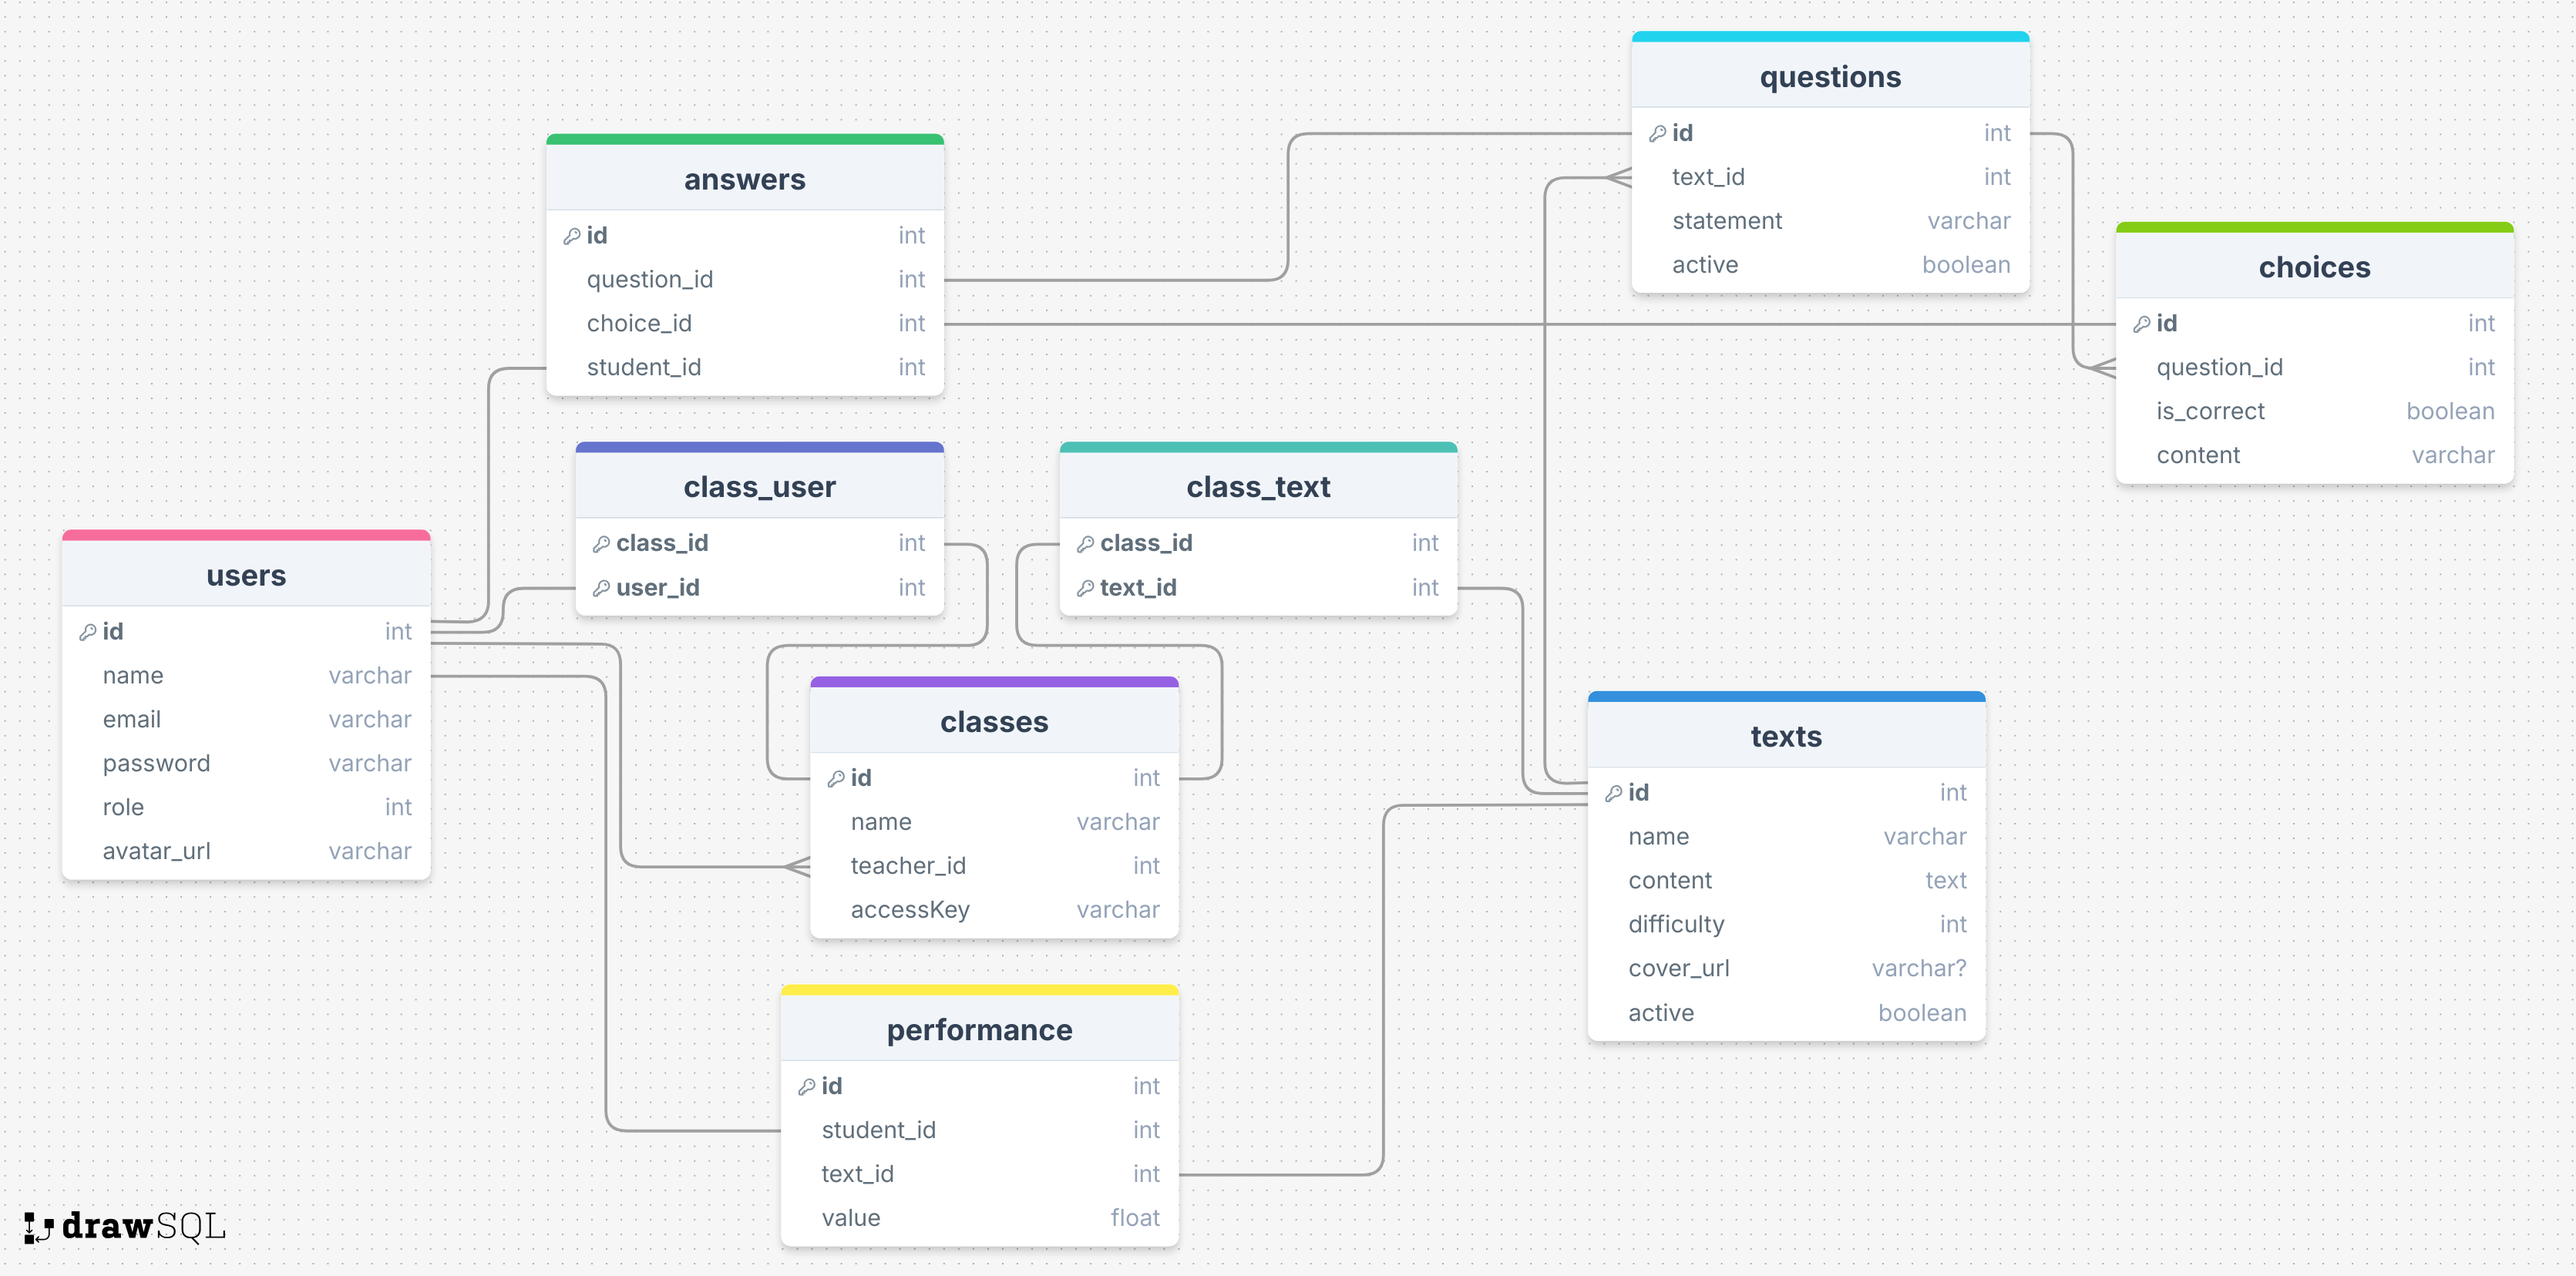
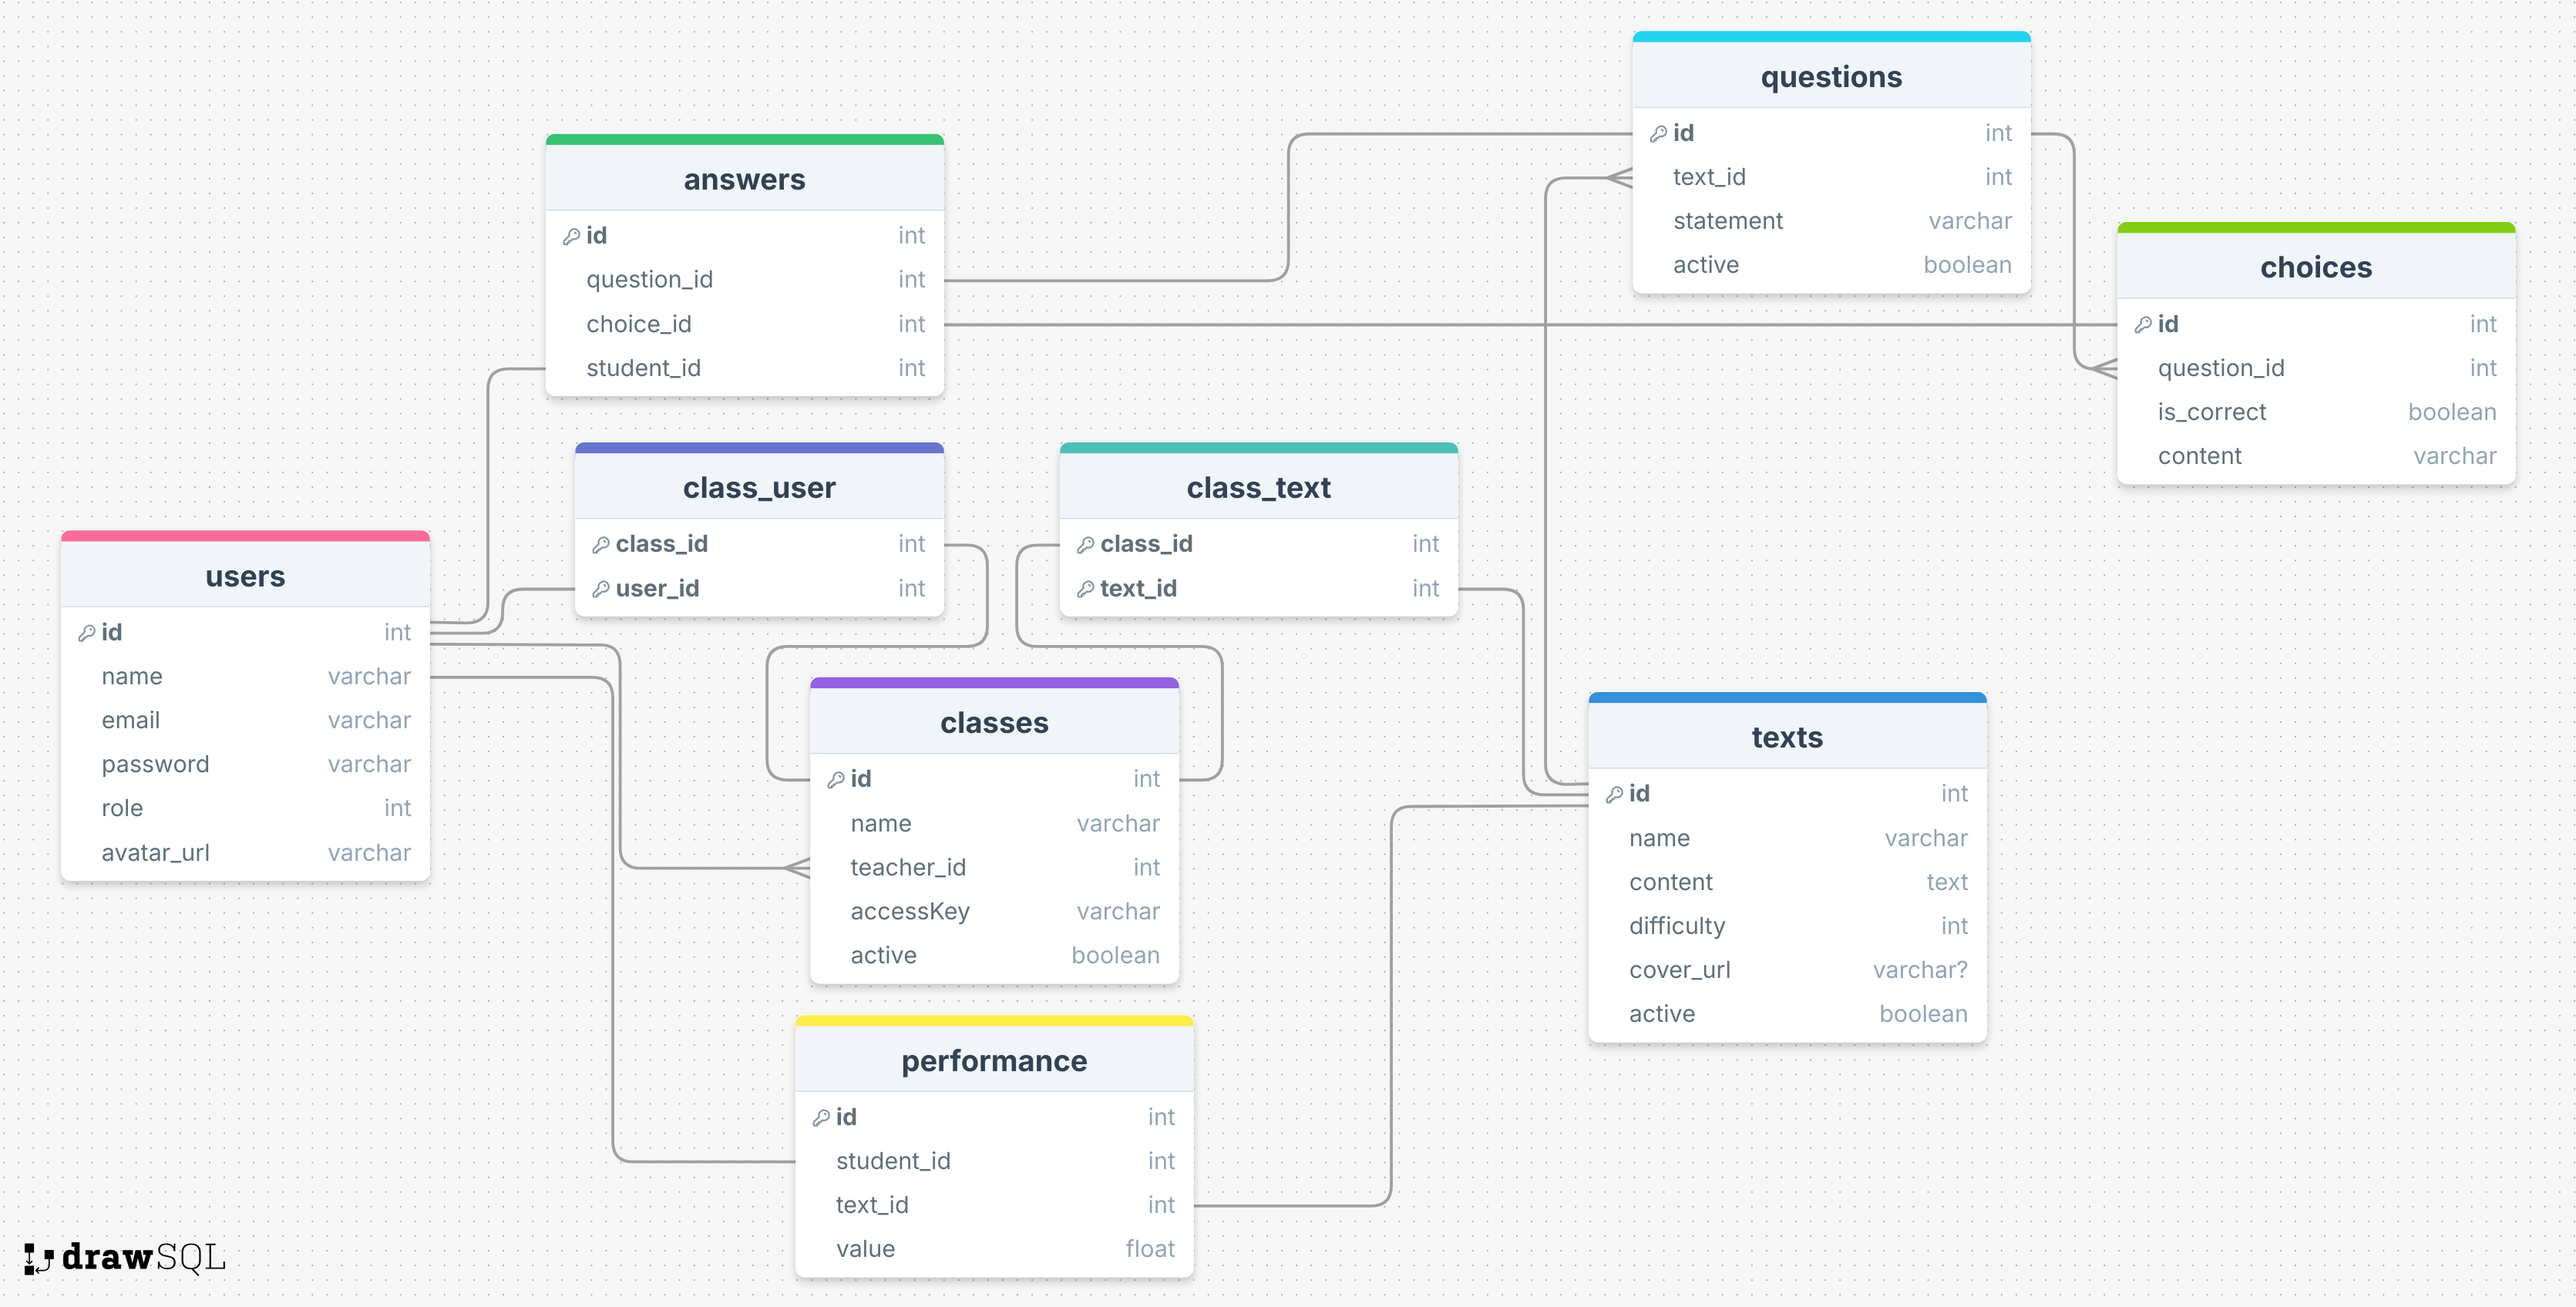
feat: class endpoints

diff --git a/src/services/classService.js b/src/services/classService.js
@@ -1,0 +1,153 @@
+import roles from "@/lib/roles";
+const AppError = require("@/lib/appError");
+const prisma = require("@/lib/prisma");
+
+const getByName = async (name) => {
+  if(!name) {
+    name = "";  
+  }
+
+  const classes = await prisma.class.findMany({
+    where: {
+      name: {
+        contains: name,
+        mode: "insensitive"
+      }, 
+      active: true
+    },
+    orderBy: {
+      name: "asc"
+    }
+  });
+
+  return classes;
+};
+
+const deleteById = async (id) => {
+  const classroom = await prisma.class.findFirst({
+    where: {
+      id
+    }
+  });
+
+  if(!classroom) {
+    throw new AppError("Turma não encontrada!", 404);
+  }
+
+  await prisma.class.update({
+    where: {
+      id: classroom.id
+    },
+    data: {
+      active: false
+    }
+  });
+};
+
+const getById = async (id) => {
+  const classroom = await prisma.class.findFirst({
+    where: {
+      id: id
+    },
+    include: {
+      teacher: true,
+    }
+  });
+
+  if (!classroom) {
+    throw new AppError("Turma não encontrada!", 404);
+  }
+
+  const students = await prisma.user.findMany({
+    where: {
+      classUser: {
+        some: {
+          classId: id
+        }
+      }
+    }
+  });
+
+  return {
+    ...classroom,
+    students: students
+  };
+};
+
+const validateName = async(id, name) => {
+  let classroom;
+  if(id) {
+    classroom = await prisma.class.findFirst({
+      where: {
+        name: name,
+        id: {
+          not: id
+        }
+      }
+    });
+  } else {
+    classroom = await prisma.class.findFirst({
+      where: {
+        name
+      }
+    });
+  }
+
+  if(classroom) {
+    throw new AppError("Esse nome já está vinculado a outra turma!");
+  }
+};
+
+const create = async ({ name, teacher_id, access_key }) => {
+  const teacher = await prisma.user.findFirst({
+    where: {
+      id: teacher_id,
+      role: roles.TEACHER
+    }
+  });
+
+  if(!teacher) {
+    throw new AppError("Professor inválido!");
+  }
+
+  await validateName(null, name);
+  const newClass = await prisma.class.create({
+    data: {
+      name,
+      teacherId: teacher_id,
+      accessKey: access_key
+    }
+  });
+
+  return newClass;
+};
+
+const update = async ({ id, name }) => {
+  await validateName(id, name);
+  const classroom = await prisma.class.findUnique({
+    where: {
+      id
+    }
+  });
+
+  if(!classroom) {
+    throw new AppError("Turma não encontrada!");
+  }
+
+  await prisma.class.update({
+    where: {
+      id: id
+    },
+    data: {
+      name: name
+    }
+  });
+};
+
+module.exports = {
+  create,
+  update,
+  getById,
+  getByName,
+  deleteById
+};

diff --git a/src/controllers/classController.js b/src/controllers/classController.js
@@ -1,0 +1,46 @@
+const classService = require("@/services/classService");
+const createResponse = require("@/lib/responseHelper");
+const AppError = require("@/lib/appError");
+
+const index = async (req, name) => {
+  const classroom = await classService.getByName(name);
+  return createResponse({ body: { classroom: classroom }, status: 200 });
+};
+
+const show = async (classId) => {
+  const classroom = await classService.getById(classId);
+  return createResponse({ body: { classroom }, status: 200 });
+};
+
+const destroy = async (classId) => {
+  await classService.deleteById(classId);
+  return createResponse({ body: { message: "Inativado com sucesso!"}, status: 200 });
+};
+
+const create = async (req) => {
+  const { name, teacher_id, access_key } = await req.json();
+  if(!name || !teacher_id || !access_key) {
+    throw new AppError("Dados obrigatórios não informados!", 400);
+  }
+
+  const id = await classService.create({ name, teacher_id, access_key });
+  return createResponse({ body: { id }, status: 201 });
+};
+
+const update = async (req, classId) => {
+  const { name } = await req.json();
+  if(!name) {
+    throw new AppError("Dados obrigatórios não informados!", 400);
+  }
+
+  await classService.update({ id: classId, name });
+  return createResponse({ status: 201 });
+};
+
+module.exports = {
+  create,
+  update,
+  index,
+  show,
+  destroy
+};

diff --git a/src/app/api/classes/[id]/route.js b/src/app/api/classes/[id]/route.js
@@ -1,0 +1,41 @@
+import handleError from "@/lib/errorHandler";
+import { getIdFromUrl } from "@/lib/urlHelper";
+import { verifyToken } from "@/middleware/authMiddleware";
+import { verifyTeacherRole } from "@/middleware/teacherMiddleware";
+const classController = require("@/controllers/classController");
+
+export async function PUT(req) {
+  try {
+    const tokenInfo =  verifyToken(req);
+    verifyTeacherRole(tokenInfo);
+    const classId = getIdFromUrl(req);
+
+    return await classController.update(req, classId);
+  } catch(error) {
+    return handleError(error);
+  }
+}
+
+export async function GET(req) {
+  try {
+    const tokenInfo =  verifyToken(req);
+    verifyTeacherRole(tokenInfo);
+    const classId = getIdFromUrl(req);
+
+    return await classController.show(classId);
+  } catch(error) {
+    return handleError(error);
+  }
+}
+
+export async function DELETE(req) {
+  try {
+    const tokenInfo =  verifyToken(req);
+    verifyTeacherRole(tokenInfo);
+    const classId = getIdFromUrl(req);
+
+    return await classController.destroy(classId);
+  } catch(error) {
+    return handleError(error);
+  }
+}

diff --git a/src/app/api/classes/route.js b/src/app/api/classes/route.js
@@ -1,0 +1,26 @@
+import handleError from "@/lib/errorHandler";
+import { verifyToken } from "@/middleware/authMiddleware";
+import { verifyTeacherRole } from "@/middleware/teacherMiddleware";
+const classController = require("@/controllers/classController");
+
+export async function GET(req) {
+  try {
+    verifyToken(req);
+    const { searchParams } = new URL(req.url);
+    const name = searchParams.get("name");
+    
+    return await classController.index(req, name);
+  } catch(error) {
+    return handleError(error);
+  }
+}
+
+export async function POST(req) {
+  try {
+    const tokenInfo =  verifyToken(req);
+    verifyTeacherRole(tokenInfo);
+    return await classController.create(req);
+  } catch(error) {
+    return handleError(error);
+  }
+}
